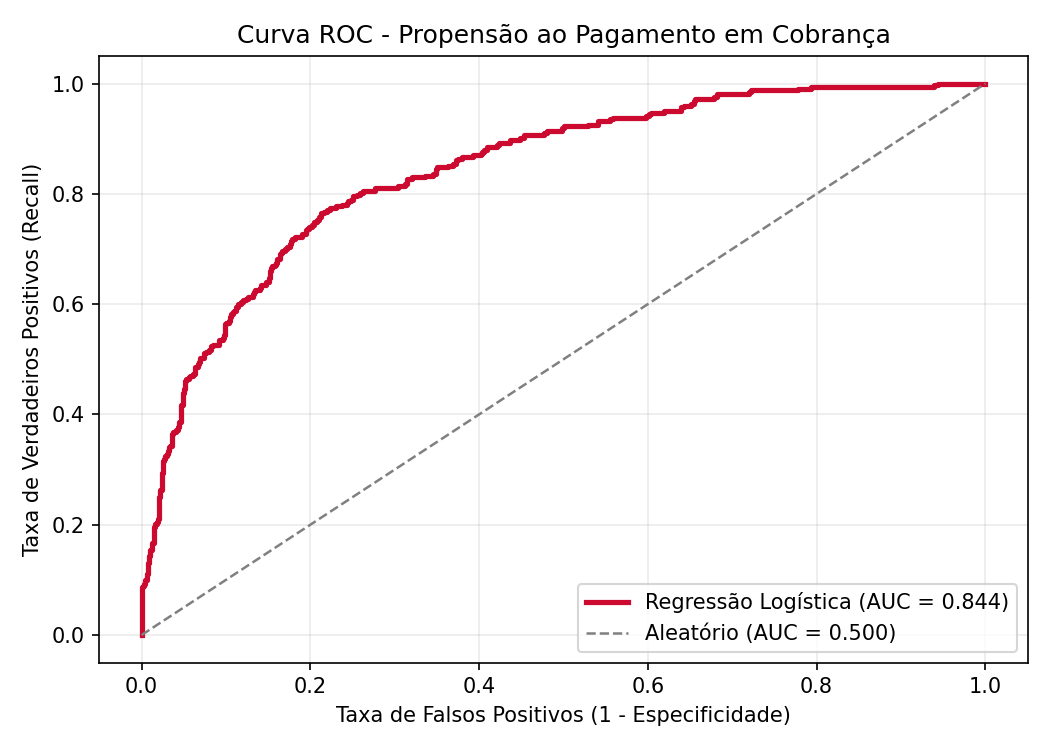
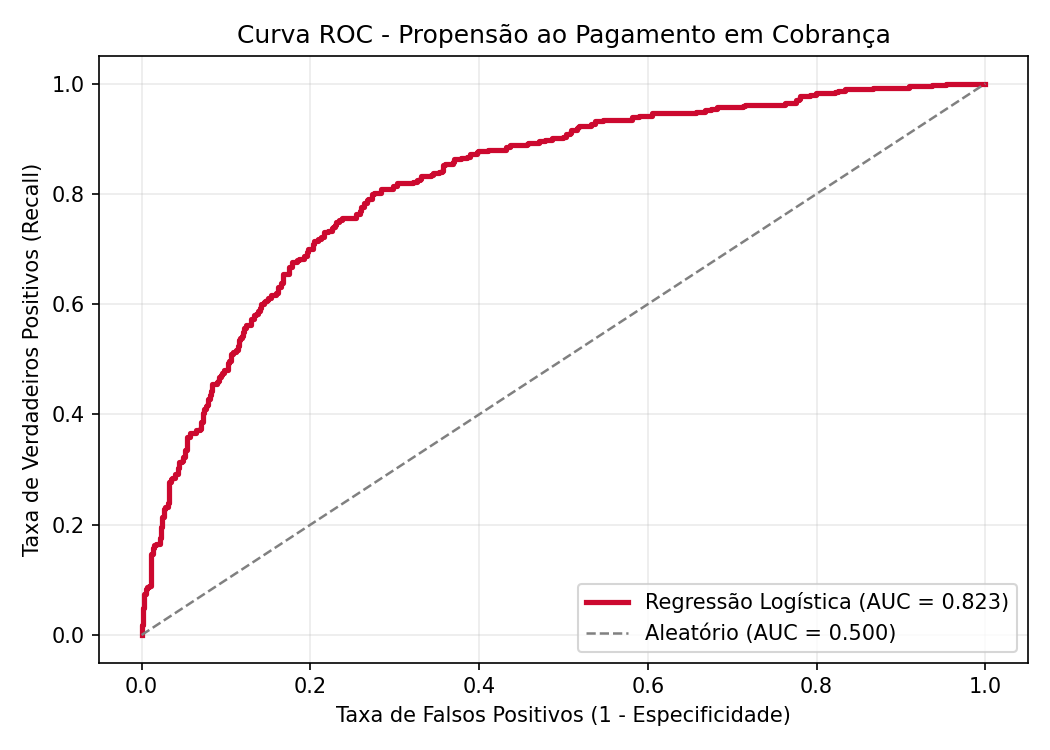
refactor(data): inclui divida relativa, efeito de canal e penalidade >90d

diff --git a/src/gerar_dados.py b/src/gerar_dados.py
@@ -12,7 +12,7 @@ from pathlib import Path
 import numpy as np
 import pandas as pd
 
-# Semente fixa para garantir 100% de reprodutibilidade (qualquer pessoa que rodar terá os mesmos dados)
+# Semente fixa para reprodutibilidade (com a mesma seed e versão das bibliotecas)
 SEED = 42
 BASE_DIR = Path(__file__).resolve().parent.parent
 DATA_PATH = BASE_DIR / "data" / "clientes_inadimplentes.csv"
@@ -25,7 +25,7 @@ def gerar_base_clientes(n_clientes: int = 5000, seed: int = SEED) -> pd.DataFram
     # 1. Características do cliente e da dívida
     id_cliente = np.arange(1, n_clientes + 1)
 
-    # Valor devido: distribuição log-normal (muitos valores baixos/médios e poucos valores muito altos, típico de banco)
+    # Valor devido: distribuição log-normal (muitos valores baixos/médios e poucos valores muito altos)
     valor_devido = np.round(rng.lognormal(mean=7.2, sigma=0.8, size=n_clientes), 2)
     valor_devido = np.clip(valor_devido, 100.0, 25000.0)
 
@@ -36,7 +36,7 @@ def gerar_base_clientes(n_clientes: int = 5000, seed: int = SEED) -> pd.DataFram
     qtd_atrasos_12m = rng.poisson(lam=1.8, size=n_clientes)
     qtd_atrasos_12m = np.clip(qtd_atrasos_12m, 0, 6)
 
-    # Tempo de relacionamento com o banco em meses (1 a 120 meses / 10 anos)
+    # Tempo de relacionamento com a instituição em meses (1 a 120 meses / 10 anos)
     tempo_relacionamento_meses = rng.integers(low=1, high=121, size=n_clientes)
 
     # Faixa de renda (1 = até 2 SM, 2 = 2 a 5 SM, 3 = acima de 5 SM)
@@ -50,17 +50,27 @@ def gerar_base_clientes(n_clientes: int = 5000, seed: int = SEED) -> pd.DataFram
     )
 
     # 2. Regra probabilística para definir quem pagou (0 ou 1)
-    # Score latente (log-odds):
-    # - Dias de atraso e histórico de atrasos diminuem a chance de pagar (-)
-    # - Tempo de relacionamento e renda maior aumentam a chance de pagar (+)
-    # - Dívidas muito altas em relação à renda são mais difíceis de quitar (-)
+    # Renda mensal de referência por faixa (aproximação fictícia: R$ 2.500, R$ 5.000, R$ 10.000)
+    renda_ref = np.array([0, 2500, 5000, 10000])[renda_faixa]
+    divida_relativa = valor_devido / renda_ref
+
+    # Efeito do canal de contato na propensão ao pagamento
+    efeito_canal = (
+        pd.Series(canal_preferido)
+        .map({"WhatsApp": 0.15, "App_Push": 0.10, "Telefone": 0.0, "Email": -0.20})
+        .to_numpy()
+    )
+
+    # Score latente (log-odds) com não-linearidade (quebra de 90 dias) e dívida relativa à renda
     score_latente = (
-        1.2
-        - 0.025 * dias_atraso
+        1.5
+        - 0.020 * dias_atraso
+        - 0.60 * (dias_atraso > 90)  # penalidade extra para atraso longo (> 90 dias)
         - 0.45 * qtd_atrasos_12m
         + 0.012 * tempo_relacionamento_meses
         + 0.35 * (renda_faixa - 1)
-        - 0.00008 * valor_devido
+        - 0.50 * divida_relativa
+        + efeito_canal
         + rng.normal(0, 0.5, size=n_clientes)  # Ruído para simular imprevistos do mundo real
     )
 
